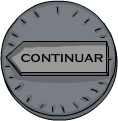
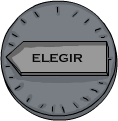
Empezando con pantallas
En el mantenimiento se corrigió el problema de las cargas, y ahora se empezaron a crear las configuraciones de carga que el usuario puede elegir

Changed region(s): [[0.178, 0.4215, 0.8898, 0.5207]]

diff --git a/CAMBIOS/Pantallas.py b/CAMBIOS/Pantallas.py
@@ -1,7 +1,7 @@
 import pygame,sys
 from pygame.locals import *
 import numpy as np
-
+from Pantalla import *
 class PANTALLAS:
     def __init__(self):
         
@@ -19,11 +19,15 @@ class PANTALLAS:
         self.clock=pygame.time.Clock()
         self.screen = pygame.display.set_mode((800, 600))
         self.fuente = pygame.font.SysFont('Courier', 20)
+        self.anillo = pygame.image.load("carga_en_anillo.png")
+        self.pantalla=self.anillo
+       
         
         
     def dibujar_botones_iniciales(self,otra_lista):
         panel = pygame.transform.scale(self.imagen_panel, [800, 600])
         self.screen.blit(panel, [0, 0])
+        self.screen.blit(self.pantalla,(288,72))
         for boton in otra_lista:
             
             if boton['on_click']:
@@ -68,15 +72,19 @@ class PANTALLAS:
                 otra_pantalla = False
                         
             if botones[0]['on_click'] and click:
-                self.imagen_panel = pygame.image.load('fondo-pared-ladrillos.jpg')
-                
+                self.pantalla=self.anillo
                 click = False
-                
             if botones[1]['on_click'] and click:
-                self.imagen_panel = pygame.image.load('MENU.jpg')
-                botones.append({ 'imagen': self.volti, 'imagen_pressed': self.volti_otro, 'rect': r_boton_3_3, 'on_click': False})
+                self.pantalla=self.constante
                 click = False
-
+            if botones[2]['on_click'] and click:
+                if self.pantalla==self.anillo:
+                    world.visual(pantalla1=True)
+                elif self.pantalla==self.constante:
+                    world.visual(pantalla2=True) 
+                elif self.pantalla==self.constante:
+                    world.visual(pantalla3=True)
+                click = False
             
             self.dibujar_botones_iniciales(botones)
 

diff --git a/CAMBIOS/main.py b/CAMBIOS/main.py
@@ -4,6 +4,7 @@ import numpy as np
 from Funciones import *
 from Pantalla import *
 from Menu import *
+from Pantallas import *
 
 class main:
     def __init__(self):
@@ -14,11 +15,11 @@ class main:
         pygame.display.set_icon(programIcon)
         self.imagen_boton = pygame.image.load("iniciar.png")
         self.imagen_boton_pressed = pygame.image.load("iniciar_oprimido.png")
-        self.pantallas=pygame.image.load('PANTA.png')
+        self.pantallas=pygame.image.load('INSTRU.png')
         self.pantallas_press=pygame.image.load("press.png")
         self.sortir=pygame.image.load('SALIR.png')
         self.sortir_press=pygame.image.load('SALIR_PRESS.png')
-        self.instrucciones= pygame.image.load('INSTRU.png')
+        self.instrucciones= pygame.image.load('PANTA.png')
         self.imagen_panel = pygame.image.load('INICIO.jpg')
         self.clock=pygame.time.Clock()
         self.screen = pygame.display.set_mode((800, 600))
@@ -71,6 +72,18 @@ class main:
             if botones[0]['on_click'] and click:
                 world.visual()
                 click = False
+
+            if botones[1]['on_click'] and click:
+                INSTRUCCIONES().otra_pantalla()
+                click = False
+
+            if botones[2]['on_click'] and click:
+                PANTALLAS().otra_pantalla()
+                click = False
+
+            if botones[3]['on_click'] and click:
+                pygame.quit()
+                sys.exit()
                 
                 
             

diff --git a/CAMBIOS/Pantalla.py b/CAMBIOS/Pantalla.py
@@ -108,7 +108,7 @@ class world:
             box.pintar(self.screen)
         pygame.display.flip()
         
-    def visual():
+    def visual(pantalla1=False,pantalla2=False,pantalla3=False):
         mag = cajas_texto(13, 391, 195, 32)
         velx = cajas_texto(13, 460, 100, 32)
         vely = cajas_texto(112, 460, 95, 32)
@@ -163,6 +163,23 @@ class world:
         l=0
         paso=True
         Ejecucion=True
+        
+        if pantalla1:
+            p=np.arange(0,2*np.pi,np.pi/10)
+            for i in p:
+                X=100*np.cos(i)+500
+                Y=100*np.sin(i)+200
+                u=u+[carga((X,Y),0)]
+                x=50*np.cos(i)+510
+                y=50*np.sin(i)+210
+                v=v+[ball((x,y),(0,0),(10*(-1)**(i*(10/np.pi))))]
+        p=np.arange(150,850,30)
+        for i in p:
+            u=u+[carga((i,300),15)]
+            u=u+[carga((i,100),-15)]
+        
+
+        
         while Ejecucion==True:
             update_potencial=False
             update_campo=False
@@ -275,6 +292,7 @@ class world:
                     l=0
             if botones[6]['on_click'] and click:
                 GUARDAR=True
-                
-                    
+            
+
+
             world(v,u).update(botones,input_boxes,pot,update_potencial,camp,update_campo,GUARDAR)
